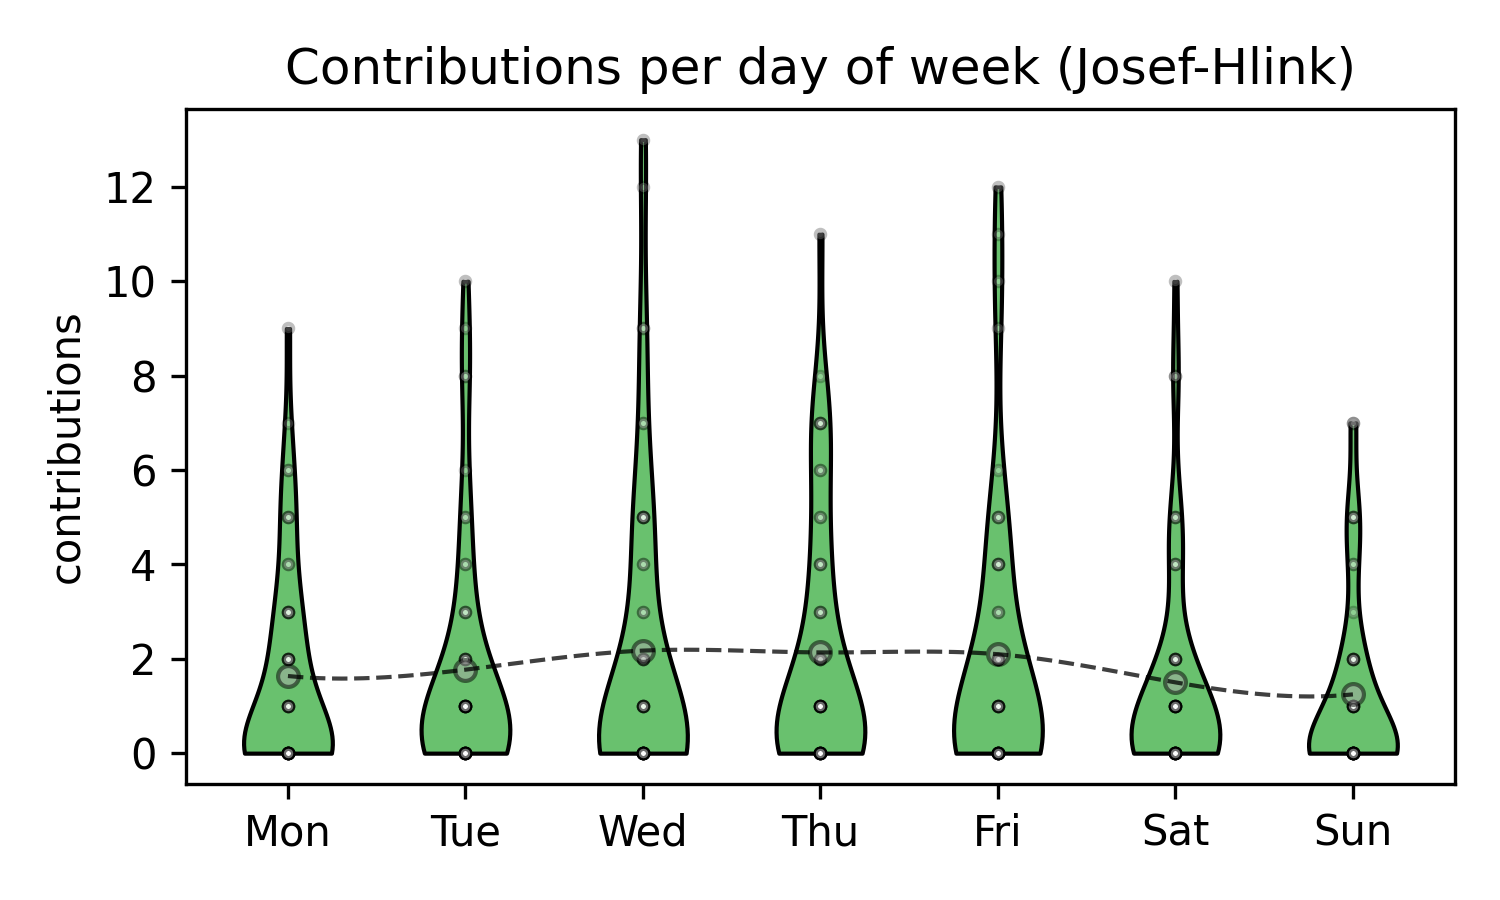
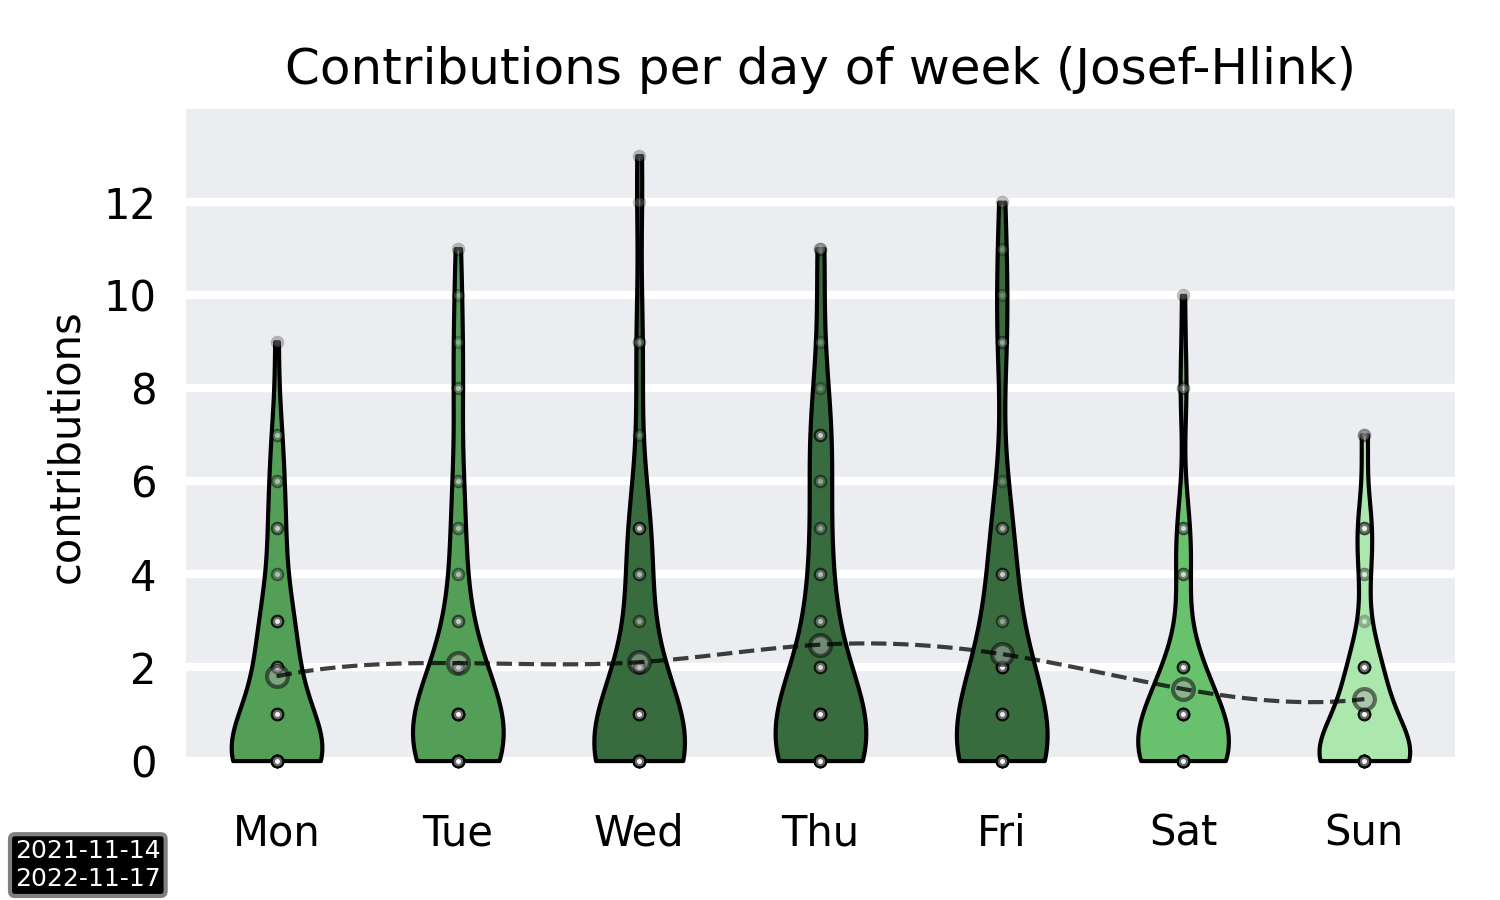
Improve plot layout
feels more github-esque now

Changed region(s): [[0.0613, 0.0933, 0.9813, 0.9644], [0.0, 0.9022, 0.1227, 1.0]]

diff --git a/main.py b/main.py
@@ -4,6 +4,7 @@ from bs4 import BeautifulSoup
 import pandas as pd
 import numpy as np
 import matplotlib.pyplot as plt
+from matplotlib.patches import Rectangle
 from scipy.interpolate import make_interp_spline
 from scipy.signal import savgol_filter 
 
@@ -50,30 +51,34 @@ def get_contributions(username: str) -> pd.DataFrame:
 
 def plot_contributions(contributions: pd.DataFrame, username: str) -> plt.Figure:
     """ Create a violinplot where each day of the week is a body  """
-    
+
+    start, end = contributions.index[0], contributions.index[-1]
     contributions['day_of_week'] = contributions.index.dayofweek
     data = contributions.groupby('day_of_week')['contributions'].apply(list).values
+    max_contributions = contributions['contributions'].max()
+    colors = [
+        '#ace7ae',  # light green
+        '#69c16e',  # slightly darker green
+        '#539f57',  # "normal" green
+        '#386c3e'  # dark green
+    ]
 
     # create figure
     fig, ax = plt.subplots(figsize=(5, 3))
 
-    ax = add_violins(ax, data)
+    ax = add_violins(ax, data, colors)
     ax = add_raw_data(ax, data)
     ax = add_means(ax, contributions)
-
-    ax.set_xticks(range(1, 8))
-    ax.set_xticklabels(['Mon', 'Tue', 'Wed', 'Thu', 'Fri', 'Sat', 'Sun'])
-    ax.set_ylabel('contributions')
-    max_c = contributions['contributions'].max()
-    stepsize = max(max_c // 5, 1)
-    ax.set_yticks(range(0, max_c, stepsize))
+    ax = fix_layout(ax, max_contributions)
     ax.set_title(f'Contributions per day of week ({username})')
+    
+    fig = add_timeframe(fig, start, end)
     fig.tight_layout()
-
+    
     return fig
 
 
-def add_violins(ax: plt.Axes, data: list) -> plt.Axes:
+def add_violins(ax: plt.Axes, data: list, colors: list[str]) -> plt.Axes:
     """ Add violins to the axes object """
     
     vp = ax.violinplot(
@@ -84,8 +89,16 @@ def add_violins(ax: plt.Axes, data: list) -> plt.Axes:
         bw_method = 0.4
     )
 
-    for body in vp['bodies']:
-        body.set_color('#69c16e')
+    means = [np.mean(d) for d in data]
+    classes = np.linspace(np.min(means), np.max(means), 4)
+    cmap = list(zip(classes, colors))
+
+    for i, body in enumerate(vp['bodies']):
+        mean = means[i]
+        for c, color in cmap:
+            if mean <= c:
+                body.set_facecolor(color)
+                break
         body.set_edgecolor('black')
         body.set_linewidth(1)
         body.set_alpha(1)
@@ -140,6 +153,64 @@ def add_means(ax: plt.Axes, contributions: pd.DataFrame) -> plt.Axes:
 
     return ax
 
+def fix_layout(ax: plt.Axes, max_c: int) -> plt.Axes:
+    """ Fix the layout of the axes object """
+    
+    # background
+    ax.set_facecolor('#ebedf0')
+    for spine in ax.spines.values():
+        spine.set_visible(False)
+    ax.set_axisbelow(True)
+    ax.yaxis.grid(color='white', linestyle='-', linewidth=2)
+    
+    # axes ticks & labels
+    ax.set_xticks(range(1, 8))
+    ax.set_xticklabels(['Mon', 'Tue', 'Wed', 'Thu', 'Fri', 'Sat', 'Sun'])
+    ax.set_ylabel('contributions')
+    stepsize = max(max_c // 5, 1)
+    ax.set_xlim(0.5, 7.5)
+    ax.set_ylim(-(stepsize / 4), max_c + stepsize // 2)
+    ax.set_yticks(range(0, max_c, stepsize))
+    ax.tick_params(
+        axis = 'both',
+        bottom = False,
+        left = False
+    )
+
+    # white rect to "remove" grey area below y=0
+    ax.add_patch(
+        Rectangle(
+            (0, -stepsize),
+            8,
+            stepsize,
+            facecolor = 'white',
+            edgecolor = 'none',
+            zorder = -1
+        )
+    )
+
+    return ax
+
+def add_timeframe(fig: plt.Figure, start: pd.Timestamp, end: pd.Timestamp) -> plt.Figure:
+    """ Add a timeframe box to the figure """
+    
+    fig.text(
+        0.01,
+        0.01,
+        f'{start.date()}\n{end.date()}',
+        fontsize=6,
+        color='white',
+        horizontalalignment='left',
+        verticalalignment='bottom',
+        # center text in textbox
+        bbox=dict(
+            facecolor='black',
+            edgecolor='gray',
+            boxstyle='round, pad=0.2'
+        )
+    )
+
+    return fig
 
 
 if __name__ == '__main__':

diff --git a/README.md b/README.md
@@ -11,7 +11,6 @@ It scrapes your GitHub contribution graph and uses Python to create a graph of y
 ## Example
 
 ![Example](contributions.png)
-last updated on: _30-10-2021_
 
 ## Usage
 
